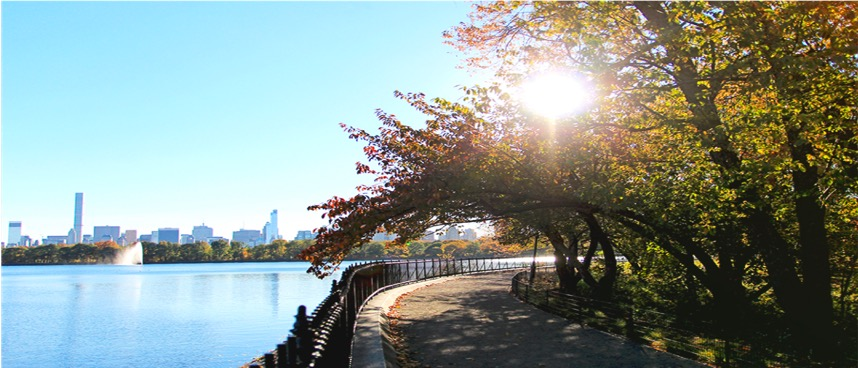
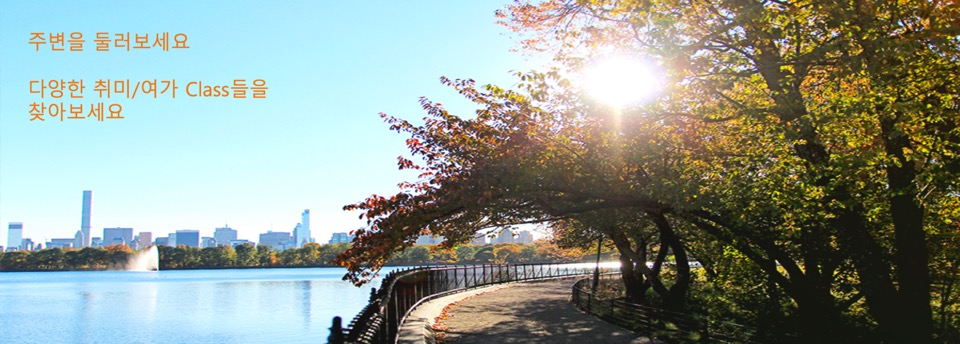
build host

diff --git a/src/Components/Introduce/index.js b/src/Components/Introduce/index.js
@@ -1,52 +1,56 @@
 import React from 'react';
 import { makeStyles } from '@material-ui/core/styles';
-import Paper from '@material-ui/core/Paper';
 import Typography from '@material-ui/core/Typography';
+import Card from '@material-ui/core/Card';
 
 const useStyles = makeStyles(theme => ({
   root: {
-    padding: theme.spacing(3, 2),
-    margin: 20,
+    width: "100%"
   },
+  card: {
+    padding: theme.spacing(3, 2),
+    margin: "30px",
+    height: "200px"
+  }
 }));
 
 export default function Introduce() {
   const classes = useStyles();
 
   return (
-    <div>
-      <Paper className={classes.root}>
+    <div className={classes.root}>
+      <Card className={classes.card}>
         <Typography variant="h5" component="h3">
-          This is a sheet of paper.
-        </Typography>
+          Mocha Class is
+        </Typography><br/>
         <Typography component="p">
-          Paper can be used to build surface or other elements for your application.
+          다양한 취미 여가 클래스들을 즐겨 보세요!
         </Typography>
-      </Paper>
-      <Paper className={classes.root}>
+      </Card>
+      <Card className={classes.card}>
         <Typography variant="h5" component="h3">
-          This is a sheet of paper.
-        </Typography>
+          Intro 1
+        </Typography><br/>
         <Typography component="p">
-          Paper can be used to build surface or other elements for your application.
+           Intro 1 description
         </Typography>
-      </Paper>
-      <Paper className={classes.root}>
+      </Card>
+      <Card className={classes.card}>
         <Typography variant="h5" component="h3">
-          This is a sheet of paper.
-        </Typography>
+          Intro 2
+        </Typography><br/>
         <Typography component="p">
-          Paper can be used to build surface or other elements for your application.
+          Intro 2 description
         </Typography>
-      </Paper>
-      <Paper className={classes.root}>
+      </Card>
+      <Card className={classes.card}>
         <Typography variant="h5" component="h3">
-          This is a sheet of paper.
+          Intro 3
         </Typography>
-        <Typography component="p">
-          Paper can be used to build surface or other elements for your application.
+        <Typography component="p"><br/>
+          Intro 3 description
         </Typography>
-      </Paper>
+      </Card>
     </div>
   );
 }

diff --git a/public/index.html b/public/index.html
@@ -5,6 +5,16 @@
     <link rel="shortcut icon" href="%PUBLIC_URL%/favicon.ico" />
     <meta name="viewport" content="width=device-width, initial-scale=1" />
     <meta name="theme-color" content="#000000" />
+    <meta name="description" content="다양한 취미 여가 원데이 클래스들을 찾아보세요. 클래스 강사분들과 수강생분들을 위한 서비스 Mocha Class!">
+    <meta name="keyword" content="취미">
+    <meta name="keyword" content="여가">
+    <meta name="keyword" content="요가">
+    <meta name="keyword" content="필라테스">
+    <meta name="keyword" content="공예">
+    <meta name="keyword" content="공방">
+    <meta name="keyword" content="원데이 클래스">
+    <meta name="keyword" content="레져">
+    <meta name="keyword" content="플라워 레슨">
     <!--
       manifest.json provides metadata used when your web app is installed on a
       user's mobile device or desktop. See https://developers.google.com/web/fundamentals/web-app-manifest/
@@ -19,10 +29,10 @@
       work correctly both with client-side routing and a non-root public URL.
       Learn how to configure a non-root public URL by running `npm run build`.
     -->
-    <title>React App</title>
+    <title>Mocha Class</title>
   </head>
   <body>
-    <noscript>You need to enable JavaScript to run this app.</noscript>
+    <noscript>다양한 취미/여가 클래스를 즐겨보세요.</noscript>
     <div id="root"></div>
     <!--
       This HTML file is a template.

diff --git a/src/Components/MainImage/index.js b/src/Components/MainImage/index.js
@@ -2,12 +2,15 @@ import React from 'react';
 import { makeStyles } from '@material-ui/core/styles';
 import Card from '@material-ui/core/Card';
 import CardMedia from '@material-ui/core/CardMedia';
+import Typography from '@material-ui/core/Typography';
 
 
 const useStyles = makeStyles({
-  card: {
-    maxWidth: 1100,
-    marginTop: 20,
+  root: {
+    width: "95%",
+    marginTop: "20px",
+    marginLeft: "20px",
+    marginRight: "20px",
   },
   media: {
     height: "100%",
@@ -19,15 +22,17 @@ export default function MainImage() {
   const classes = useStyles();
 
   return (
-    <Card className={classes.card}>
+    <Card className={classes.root}>
       
         <CardMedia
           className={classes.media}
           component="img"
           alt="Contemplative Reptile"
           image={require("./ParkImage.jpg")}
-          title="Contemplative Reptile"
+          title="Mocha Class"
+          text="주변을 둘러보세요"
         />
+          
     </Card>
   );
 }

diff --git a/src/Components/Footer/index.js b/src/Components/Footer/index.js
@@ -9,6 +9,9 @@ const useStyles = makeStyles(theme => ({
       height: 70,
       backgroundColor: '#210700'
     },
+    typo: {
+      padding: "10px"
+    }
   }));
 
 export default function Footer() {
@@ -16,8 +19,8 @@ export default function Footer() {
 
   return (
     <div className={classes.root}>
-        <Typography variant="h6" color="secondary">
-          Mocha Class Beta 준비중 입니다!  Contact : ksgj2000@gmail.com <br/>
+        <Typography variant="subtitle2" color="secondary" className={classes.typo} >
+          Mocha Class Beta 준비중 입니다!   Contact : ksgj2000@gmail.com <br/>
           By REDIKINS, Comming Soon!
         </Typography>
     </div>

diff --git a/src/Pages/Team.js b/src/Pages/Team.js
@@ -2,7 +2,11 @@ import React from 'react';
 
 function Team() {
   return (
-    <div>팀원 모집 합니다. 편히 언제들 아래의 메일로 연락 주세요!</div>
+    <div style={{margin: "20px"}}>팀원 모집 합니다. <br/>
+    - 디자이너 <br/>
+    - 개발자 <br/>
+    - 마케터 <br/>
+    언제든 편히 아래의 메일로 연락 주세요!</div>
   );
 }
 

diff --git a/src/Components/Navbar/index.js b/src/Components/Navbar/index.js
@@ -32,6 +32,9 @@ function Navbar() {
             <MenuItem>
               <Link component={RouterLink} to="/Team" color="secondary">Team</Link>
             </MenuItem>
+            <MenuItem>
+              <Link component={RouterLink} to="/Class" color="secondary">Class</Link>
+            </MenuItem>
           </Toolbar>
         </AppBar>
     </div>

diff --git a/src/Pages/Home.js b/src/Pages/Home.js
@@ -7,7 +7,7 @@ import { makeStyles } from '@material-ui/core/styles';
 const useStyles = makeStyles({
     root: {
       display: 'flex',
-      flexGrow: 1,
+     
       flexDirection: 'column',
       alignItems: 'center',
       justifyContent: 'center',
